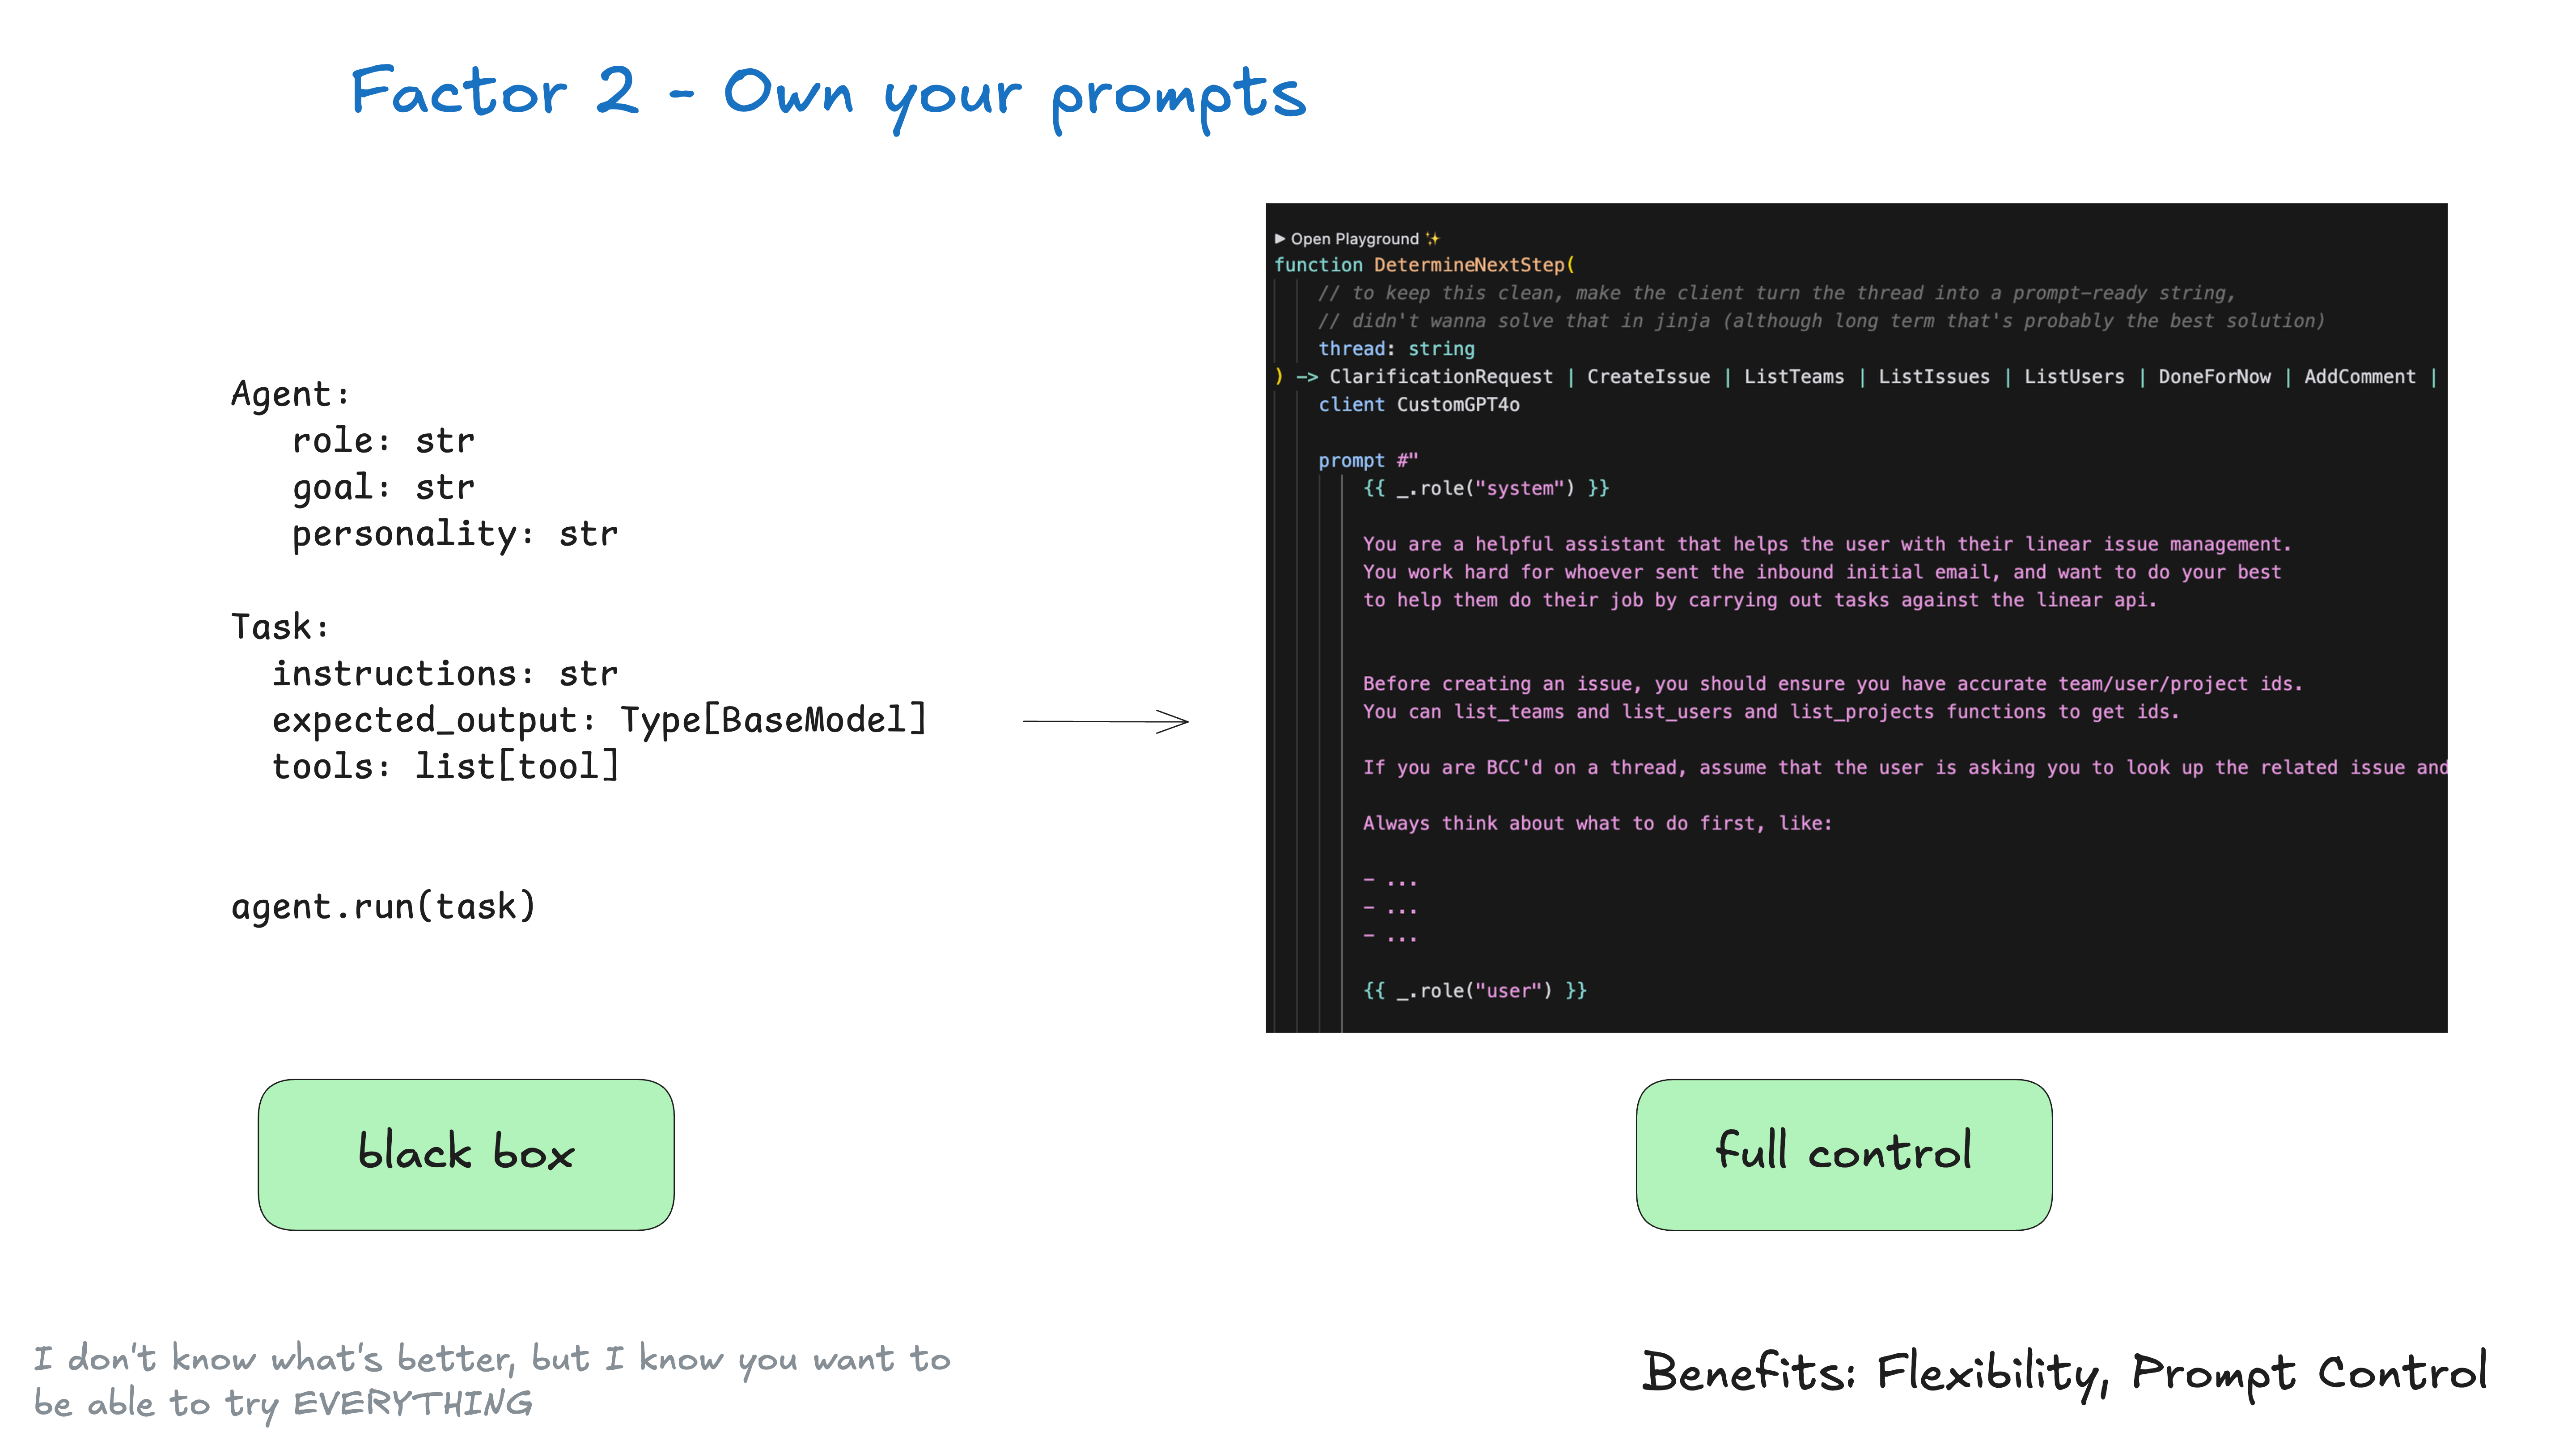
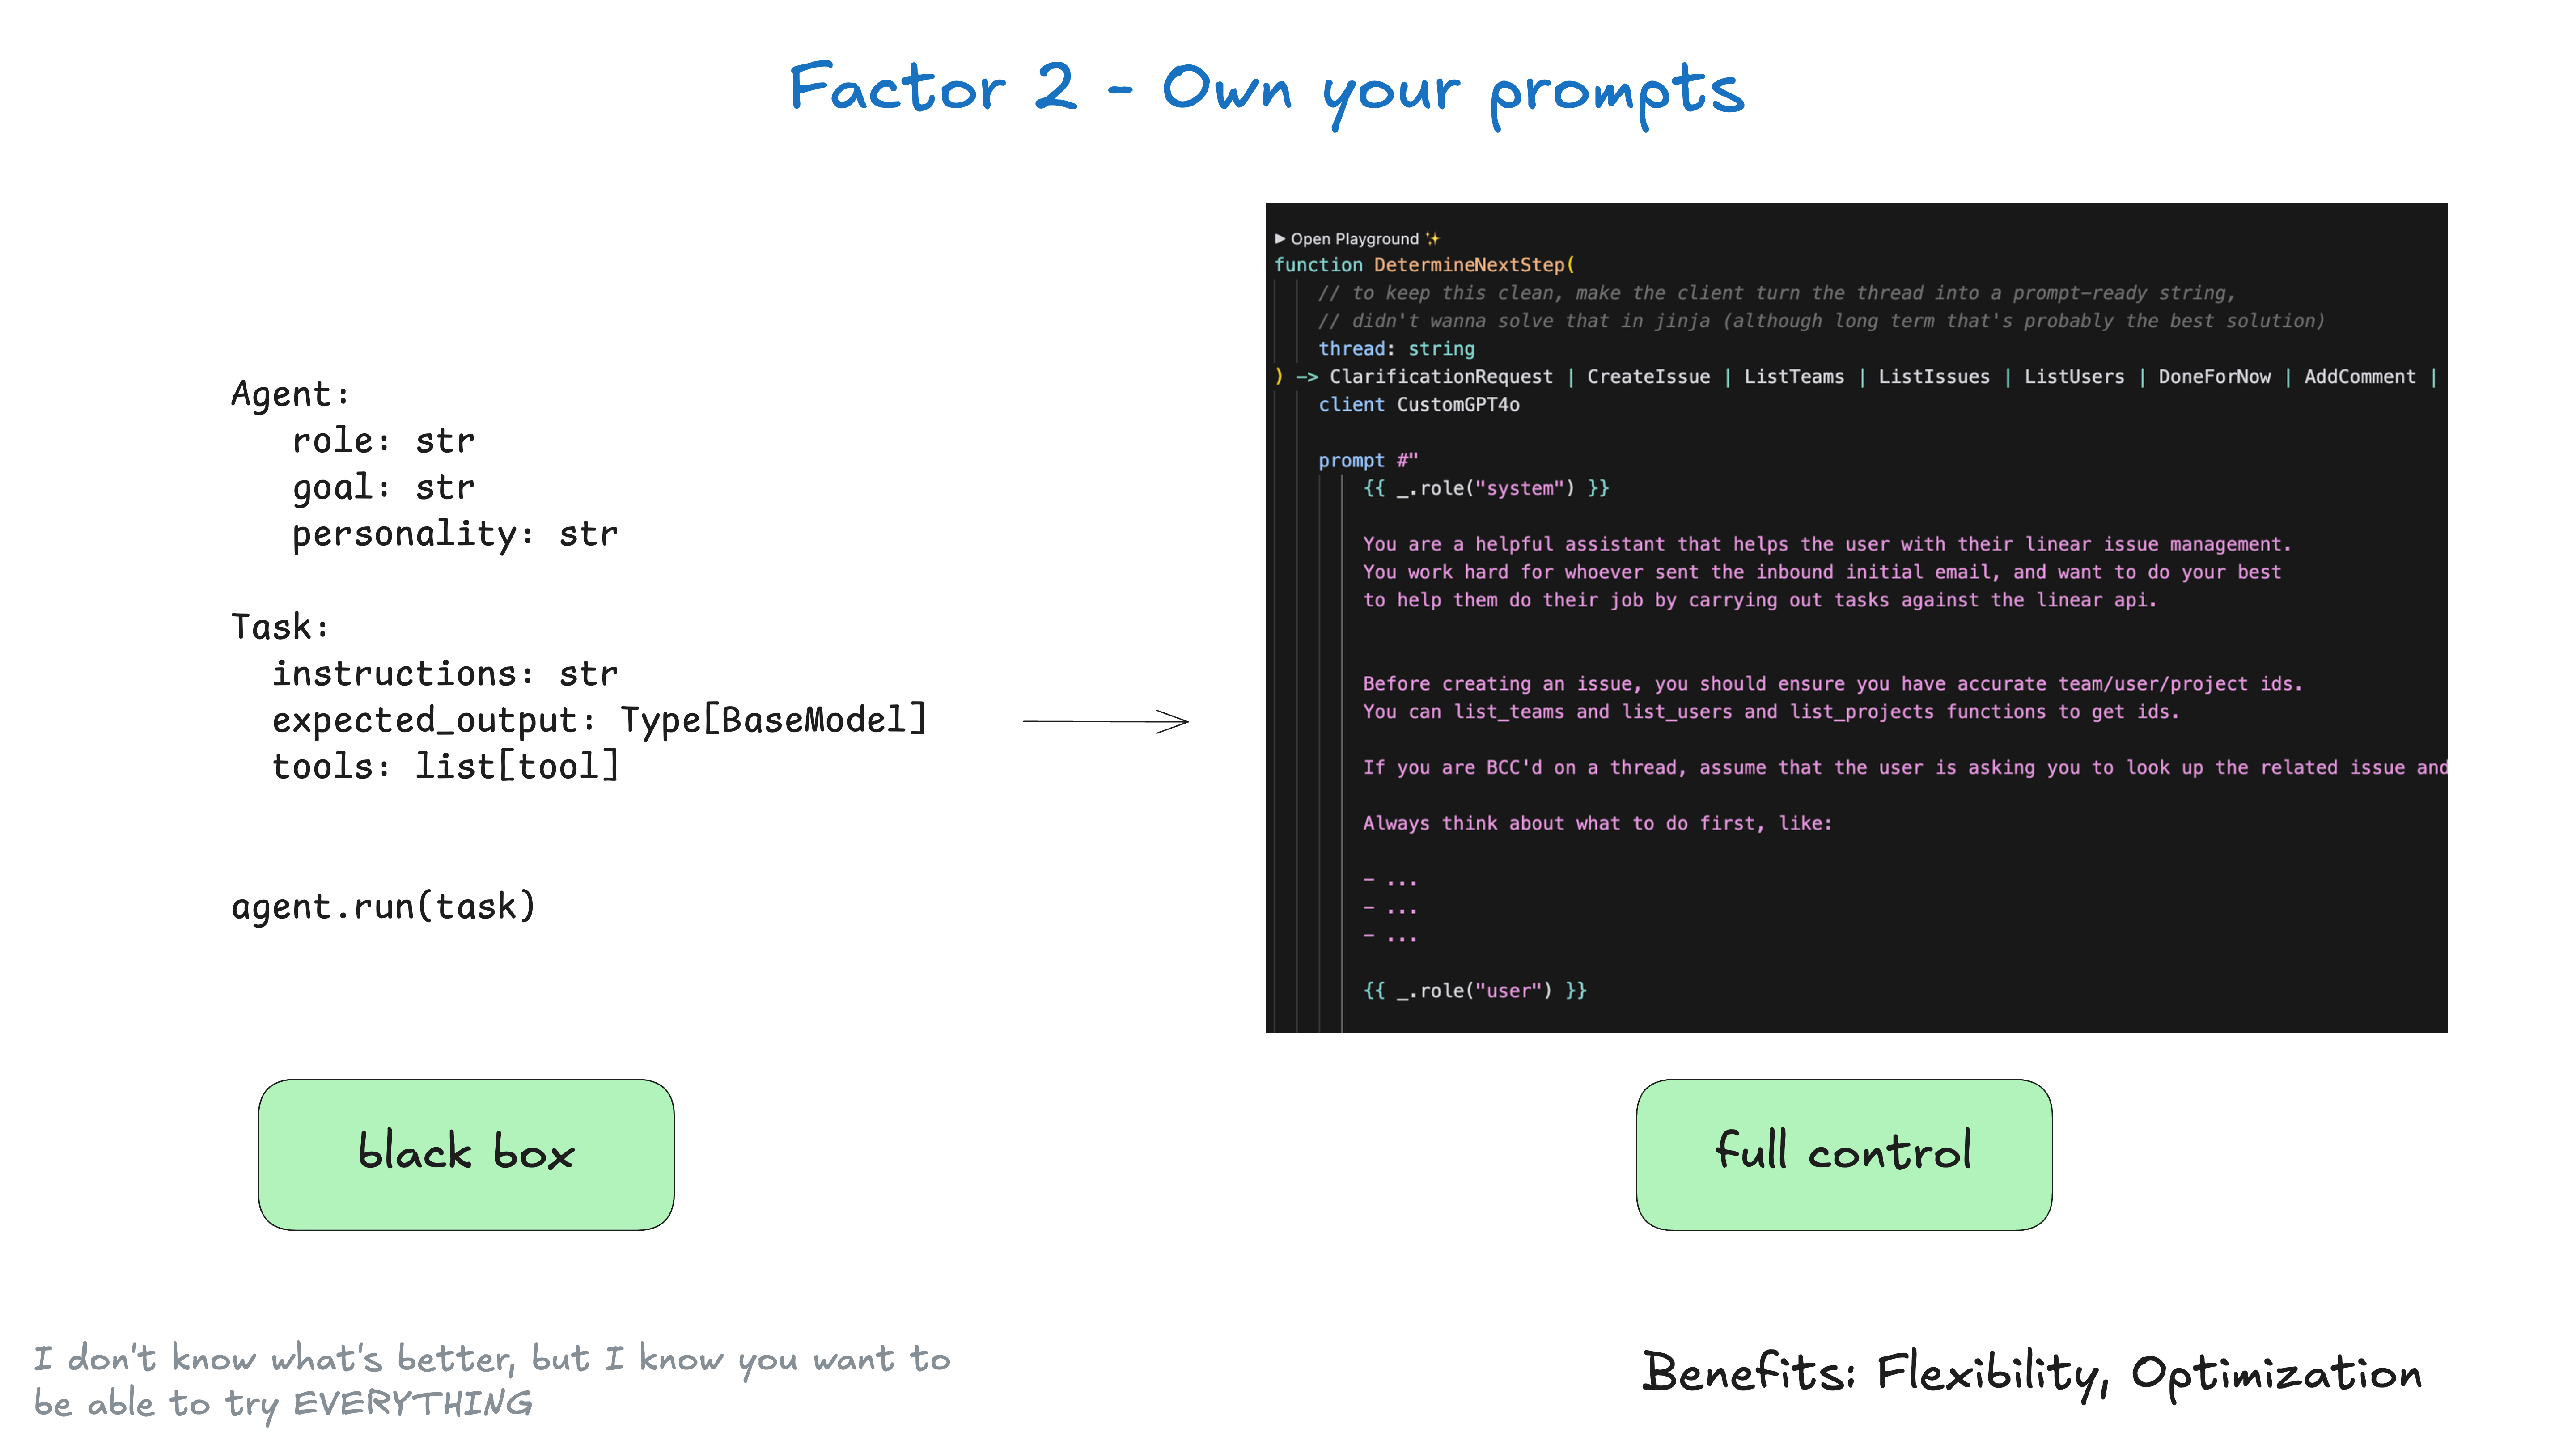
wip

Changed region(s): [[0.2812, 0.0312, 0.6875, 0.0935], [0.125, 0.0312, 0.25, 0.0935], [0.8125, 0.9352, 0.9688, 0.9664]]

diff --git a/README.md b/README.md
@@ -2,7 +2,7 @@
 
 Preview - this is a draft of everything I've learned in a year working with agents, and I imagine it may evolve a bit as we go.
 
-The source is public at github.com/humanlayer/12-factor-agents, and I welcome your feedback and contributions. Let's figure this out together!
+The source is public at https://github.com/humanlayer/12-factor-agents, and I welcome your feedback and contributions. Let's figure this out together!
 
 
 ## 12 Factor Agents OR "Agents the Hard Way"
@@ -31,6 +31,28 @@ Agents, at least the good ones, don't follow the "here's your prompt, here's a b
 > ### **What are the principles we can use to build LLM-powered software that is actually good enough to put in the hands of production customers?**
 
 Welcome to 12-factor agents. As every Chicago mayor since Daley has consistently plastered all over the city's major airports, we're glad you're here.
+
+## The Short Version: The 12 Factors
+
+Jump to Part II: [12-Factor Agents](#12-factor-agents), or into any of the particular factors below.
+
+- [Factor 1: Natural Language to Tool Calls](#1-natural-language-to-tool-calls)
+- [Factor 2: Own your prompts](#2-own-your-prompts)
+- [Factor 3: Own your context window](#3-own-your-context-window)
+- [Factor 4: Tools are just structured outputs](#4-tools-are-just-structured-outputs)
+- [Factor 5: All state in context window](#5-all-state-in-context-window)
+- [Factor 6: Launch/Pause/Resume with simple APIs](#6-launch-pause-resume-with-simple-apis)
+- [Factor 7: Contact humans with tool calls](#7-contact-humans-with-tool-calls)
+- [Factor 8: Own your control flow](#8-own-your-control-flow)
+- [Factor 9: Compact Errors into Context Window](#9-compact-errors-into-context-window)
+- [Factor 10: Small, Focused Agents](#10-small-focused-agents)
+- [Factor 11: Trigger from anywhere, meet users where they are](#11-trigger-from-anywhere-meet-users-where-they-are)
+- [Factor 12: Make your agent a stateless reducer](#12-make-your-agent-a-stateless-reducer)
+
+<!-- ![12 factors in a grid](./img/12-factors-in-a-grid.png) -->
+
+
+## The longer version: how we got here
 
 ## agents are software, and a brief history thereof
 
@@ -116,7 +138,7 @@ One thing that I **have** seen in the wild quite a bit is taking the agent patte
 
 ![micro-agent-dag](./img/028-micro-agent-dag.png)
 
-You might be asking - "why use agents at all in this case?" - we'll get into that shortly, but basically, having language models managing well-scoped sets of tasks makes it easy to incorporate live human feedback, translating it into workflow steps without spinning out into context error loops. ([factor 1](#1-natural-language-tool-calls), [factor 4](#4-use-tools-for-human-interaction)).
+You might be asking - "why use agents at all in this case?" - we'll get into that shortly, but basically, having language models managing well-scoped sets of tasks makes it easy to incorporate live human feedback, translating it into workflow steps without spinning out into context error loops. ([factor 1](#1-natural-language-to-tool-calls), [factor 4](#4-use-tools-for-human-interaction)).
 
 > ### having language models managing well-scoped sets of tasks makes it easy to incorporate live human feedback...without spinning out into context error loops
 
@@ -182,7 +204,7 @@ In building HumanLayer, I've talked to at least 100 SaaS builders (mostly techni
 
 1. Decide you want to build an agent
 2. Product design, UX mapping, what problems to solve
-3. Want to move fast, so grab $FRAMEWORK and get to building*
+3. Want to move fast, so grab $FRAMEWORK and *get to building*
 4. Get to 80-90% quality bar 
 5a. Realize that 90% isn't good enough for most customer-facing features
 5b. Realize that getting past 90% requires reverse-engineering the framework, prompts, flow, etc
@@ -190,9 +212,13 @@ In building HumanLayer, I've talked to at least 100 SaaS builders (mostly techni
 
 **DISCLAIMER**: I'm not sure the exact right place to say this, but here seems as good as any: **this in BY NO MEANS meant to be a dig on either the many frameworks out there, or the pretty dang smart people who work on them**. They enable incredible things and have accelerated the AI ecosystem. 
 
-I hope that one outcome of this post is that agent framework builders can learn from the journeys of myself and others, and make frameworks even better. Especially for builders who wanna move fast but need deep control.
+I hope that one outcome of this post is that agent framework builders can learn from the journeys of myself and others, and make frameworks even better. 
+
+Especially for builders who want to move fast but need deep control.
 
 **DISCLAIMER 2**: I'm not going to talk about MCP. I'm sure you can see where it fits in.
+
+**DISCLAIMER 3**: I'm using mostly typescript, for [reasons](https://www.linkedin.com/posts/dexterihorthy_llms-typescript-aiagents-activity-7290858296679313408-Lh9e?utm_source=share&utm_medium=member_desktop&rcm=ACoAAA4oHTkByAiD-wZjnGsMBUL_JT6nyyhOh30) but all this stuff works in python or any other language you prefer (in fact, that's probably factor 13 if there was one).
 
 Anyways back to the thing...
 
@@ -212,10 +238,10 @@ After digging hundreds of AI libriaries and working with dozens of founders, my 
 
 OK. After 5 pages of preamble, lets get into it
 
-- [Factor 1: Natural Language → Tool Calls](#1-natural-language-tool-calls)
+- [Factor 1: Natural Language to Tool Calls](#1-natural-language-to-tool-calls)
 - [Factor 2: Own your prompts](#2-own-your-prompts)
 - [Factor 3: Own your context window](#3-own-your-context-window)
-- [Factor 4: Tools are Structured Outputs](#4-tools-are-structured-outputs)
+- [Factor 4: Tools are just structured outputs](#4-tools-are-just-structured-outputs)
 - [Factor 5: All state in context window](#5-all-state-in-context-window)
 - [Factor 6: Launch/Pause/Resume with simple APIs](#6-launch-pause-resume-with-simple-apis)
 - [Factor 7: Contact humans with tool calls](#7-contact-humans-with-tool-calls)
@@ -225,7 +251,7 @@ OK. After 5 pages of preamble, lets get into it
 - [Factor 11: Trigger from anywhere, meet users where they are](#11-trigger-from-anywhere-meet-users-where-they-are)
 - [Factor 12: Make your agent a stateless reducer](#12-make-your-agent-a-stateless-reducer)
 
-### 1. Natural Language → Tool Calls
+### 1. Natural Language to Tool Calls 
 
 One of the most common patterns in agent building is to convert natural language to structured tool calls. This is a powerful pattern that allows you to build agents that can reason about tasks and execute them.
 
@@ -281,7 +307,12 @@ switch (nextStep.function) {
 
 ### 2. Own your prompts
 
-Don't outsource your prompt engineering to a framework. Most frameworks provide a "black box" approach like this:
+
+Don't outsource your prompt engineering to a framework. 
+
+![120-own-your-prompts](./img/120-own-your-prompts.png)
+
+Some frameworks provide a "black box" approach like this:
 
 ```typescript
 const agent = new Agent({
@@ -307,27 +338,34 @@ This is great for pulling in some TOP NOTCH prompt engineering to get you starte
 
 Instead, own your prompts and treat them as first-class code:
 
-```typescript
-function DetermineNextStep(thread: string) {
+```rust
+function DetermineNextStep(thread: string) -> DoneForNow | ListGitTags | DeployBackend | DeployFrontend | RequestMoreInformation {
   prompt #"
     {{ _.role("system") }}
     
-    You are a helpful assistant that helps the user with their linear issue management.
-    You work hard for whoever sent the inbound initial email, and want to do your best
-    to help them do their job by carrying out tasks against the linear api.
+    You are a helpful assistant that manages deployments for frontend and backend systems.
+    You work diligently to ensure safe and successful deployments by following best practices
+    and proper deployment procedures.
     
-    Before creating an issue, you should ensure you have accurate team/user/project ids.
-    You can list_teams and list_users and list_projects functions to get ids.
+    Before deploying any system, you should check:
+    - The deployment environment (staging vs production)
+    - The correct tag/version to deploy
+    - The current system status
     
-    If you are BCC'd on a thread, assume that the user is asking you to look up the related issue and
+    You can use tools like deploy_backend, deploy_frontend, and check_deployment_status
+    to manage deployments. For sensitive deployments, use request_approval to get
+    human verification.
     
     Always think about what to do first, like:
-    - ...
-    - ...
-    - ...
+    - Check current deployment status
+    - Verify the deployment tag exists
+    - Request approval if needed
+    - Deploy to staging before production
+    - Monitor deployment progress
     
     {{ _.role("user") }}
-    ${thread}
+
+    {{ thread }}
     
     What should the next step be?
   "#
@@ -336,18 +374,32 @@ function DetermineNextStep(thread: string) {
 
 (the above example uses [BAML](https://github.com/boundaryml/baml) to generate the prompt, but you can do this with any prompt engineering tool you want, or even just template it manually)
 
+If the signature looks a little funny, we'll get to that in [factor 4 - tools are just structured outputs](#4-tools-are-just-structured-outputs)
+
+```typescript
+function DetermineNextStep(thread: string) -> DoneForNow | ListGitTags | DeployBackend | DeployFrontend | RequestMoreInformation {
+```
+
 Key benefits of owning your prompts:
 
 1. **Full Control**: Write exactly the instructions your agent needs, no black box abstractions
 2. **Version Control**: Keep prompts in your codebase alongside other code
 3. **Iteration**: Quickly modify prompts based on real-world performance
 4. **Transparency**: Know exactly what instructions your agent is working with
+5. **Role Hacking**: take advantage of APIs that support nonstandard usage of user/assistant roles - for example, the now-deprecated non-chat flavor of OpenAI "completions" API. This includes some so-called "model gaslighting" techniques
 
-Remember: Your prompts are the primary interface between your application logic and the LLM. The framework approach might seem easier at first ("I don't know what's better, but I know you want to be able to try EVERYTHING"), but having full control over your prompts gives you the flexibility and prompt control you need for production-grade agents.
+Remember: Your prompts are the primary interface between your application logic and the LLM. The framework approach might seem easier at first. ), but having full control over your prompts gives you the flexibility and prompt control you need for production-grade agents.
+
+I don't know what's the best prompt, but I know you want the flexibility to be able to try EVERYTHING.
 
 ### 3. Own your context window
 
-Don't let frameworks dictate how you build and manage your context window. The way you structure and present information to your LLM is crucial for its performance. Here's how to take control:
+You don't necessarily need to use standard message-based formats for conveying context to an LLM.
+
+> ### At any given point, your input to an LLM in an agent is "here's what's happened so far, what's the next step"
+
+Again, I don't know what's the best way to hand context to an LLM, but I know you want the flexibility to be able to try EVERYTHING.
+
 
 #### Standard vs Custom Context Formats
 
@@ -383,24 +435,27 @@ While this works for simple chat applications, it has limitations:
 Instead, build your own context format that's optimized for your use case:
 
 ```typescript
+
+interface Thread {
+  events: Event[]
+}
+
+interface Event {
+  // could just use string, or could be explicit - up to you
+  type: "list_git_tags" | "deploy_backend" | "deploy_frontend" | "request_more_information" | "done_for_now" |
+        "list_git_tags_result" | "deploy_backend_result" | "deploy_frontend_result" | "request_more_information_result" | "done_for_now_result" |
+        "error"
+  // could just use any, or could be explicit - up to you
+  data: ListGitTags | DeployBackend | DeployFrontend | RequestMoreInformation |  
+        ListGitTagsResult | DeployBackendResult | DeployFrontendResult | RequestMoreInformationResult | string
+}
+
 const eventToPrompt = (event: Event) => {
-  switch (event.type) {
-    case 'slack_message':
-      const message = event.data as SlackMessage
-      return `<${event.type}>
-            From: ${message.user}
-            Channel: ${message.channel}
-            Text: ${message.text}
-            Thread: ${stringifyToYaml(message.thread)}
+    const data = typeof event.data !== 'string' ? stringifyToYaml(event.data) : event.data
+    return `<${event.type}>
+        ${data}
 </${event.type}>
-        `
-    default:
-      const data = typeof event.data !== 'string' ? stringifyToYaml(event.data) : event.data
-      return `<${event.type}>
-          ${data}
-</${event.type}>
-      `
-  }
+    `
 }
 
 const threadToPrompt = (thread: Thread) => {
@@ -490,7 +545,9 @@ Key benefits of owning your context window:
 
 Remember: The context window is your primary interface with the LLM. Taking control of how you structure and present information can dramatically improve your agent's performance.
 
-### 4. Tools are Structured Outputs
+Recurring theme here: I don't know what's the best context window, but I know you want the flexibility to be able to try EVERYTHING.
+
+### 4. Tools are just structured outputs
 
 ### 5. All state in context window
 